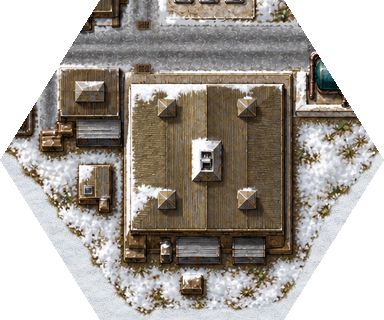
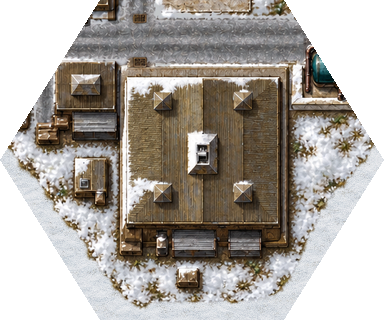
fix(art-review): the factory street meets its road, pinned by a test
TestCompoundEntryStreetMeetsTheRoad measures, in every installed compound
scene with an entry road, the painted street's mirror axis 10-18 world px
inside the entry port against the road tile's, and allows 1 world px. The
hand-set factory shift (3.5, 2.4) left the street 1.5-2 world px off in both
seasons; (2.5, 0.7) puts it on the road. The factory tiles are re-cut.

Claude-Session: https://claude.ai/code/session_01GYYpxSaZdbX1BuoopUdKHR

diff --git a/tools/art-review/compound_entry_offset_test.go b/tools/art-review/compound_entry_offset_test.go
@@ -1,0 +1,112 @@
+package main
+
+import (
+	"image"
+	"math"
+	"path/filepath"
+	"slices"
+	"testing"
+)
+
+// compoundEntryOffset is how far (world px, across the entry port) the
+// painted street of scene s runs from the road tile it continues, just inside
+// the entry blend: the street's mirror axis in the artwork minus the road's.
+func compoundEntryOffset(in compoundInputs, s compoundSceneInput) (float64, error) {
+	l, err := compoundLayoutFor(s.ID)
+	if err != nil {
+		return 0, err
+	}
+	art, _, err := compoundAffine(in.Artwork[s.ID].Image, l, s.Inset, s.fit())
+	if err != nil {
+		return 0, err
+	}
+	road := in.EntryRoads[s.ID]
+	origin, port, err := compoundEntryPort(l)
+	if err != nil {
+		return 0, err
+	}
+	f, v, err := compoundEntryRoad(road, l)
+	if err != nil {
+		return 0, err
+	}
+	raw := renderConnectionRaw(road, &f, &v) // 4x, 4 world px overscan
+	g := road.manifest.Geometry
+	at := g.Ports[port-1]
+	inward := g.Neighbors[port-1].mul(-1 / g.Neighbors[port-1].length())
+	across := connectionPoint{-inward[1], inward[0]}
+	const reach, per = 24, 4 // world px either side, samples per world px
+	// profile is the median colour, over depths blend..blend+8, at each
+	// sample across the port of im, whose pixel (0,0) lies at local world
+	// point o. The median ignores what crosses the street there (the depot's
+	// barrier, the factory's gantry).
+	profile := func(im *image.NRGBA, o connectionPoint) [][3]float64 {
+		var p [][3]float64
+		for i := -reach * per; i <= reach*per; i++ {
+			var ch [3][]float64
+			for d := float64(compoundEntryBlend); d <= compoundEntryBlend+8; d += .5 {
+				q := at.add(inward.mul(d)).add(across.mul(float64(i) / per))
+				x, y := int(math.Floor((q[0]-o[0])*4)), int(math.Floor((q[1]-o[1])*4))
+				if !(image.Point{x, y}).In(im.Bounds()) {
+					continue
+				}
+				c := im.NRGBAAt(x, y)
+				ch[0], ch[1], ch[2] = append(ch[0], float64(c.R)), append(ch[1], float64(c.G)), append(ch[2], float64(c.B))
+			}
+			var m [3]float64
+			for k := range 3 {
+				slices.Sort(ch[k])
+				m[k] = ch[k][len(ch[k])/2]
+			}
+			p = append(p, m)
+		}
+		return p
+	}
+	want := profile(raw, connectionPoint{-4, -4})
+	got := profile(art, connectionPoint{-origin[0], -origin[1]})
+	// axis is the line across the port about which p is most nearly mirror
+	// symmetric over the street and its verges (half width world px), within
+	// ±shift world px of the port's centre line.
+	const half, shift = 14, 6
+	axis := func(p [][3]float64) float64 {
+		best, at := math.Inf(1), 0.
+		for c := -shift * per; c <= shift*per; c++ {
+			sum := 0.
+			for t := 1; t <= half*per; t++ {
+				a, b := p[reach*per+c+t], p[reach*per+c-t]
+				sum += math.Sqrt((a[0]-b[0])*(a[0]-b[0]) + (a[1]-b[1])*(a[1]-b[1]) + (a[2]-b[2])*(a[2]-b[2]))
+			}
+			if sum < best {
+				best, at = sum, float64(c)/per
+			}
+		}
+		return at
+	}
+	return axis(got) - axis(want), nil
+}
+
+// TestCompoundEntryStreetMeetsTheRoad: in every installed compound scene with
+// an entry road, the painted street runs within 1 world px of the road tile it
+// continues, so the gate blend joins two aligned streets. It pins the
+// factory's manifest shift: without it the street is 2 world px off.
+func TestCompoundEntryStreetMeetsTheRoad(t *testing.T) {
+	for _, name := range []string{"compound-hq-v3.json", "compound-depot-v3.json", "compound-factory-v3.json", "compound-factory-summer-v1.json", "compound-ruin-v2.json"} {
+		in, err := loadCompoundInputs(filepath.Join("..", "..", "art", "pipeline", name))
+		if err != nil {
+			t.Fatal(err)
+		}
+		for _, s := range in.Manifest.Scenes {
+			if s.EntryRoad == nil {
+				continue
+			}
+			t.Run(s.ID, func(t *testing.T) {
+				off, err := compoundEntryOffset(in, s)
+				if err != nil {
+					t.Fatal(err)
+				}
+				if math.Abs(off) > 1 {
+					t.Errorf("%s: street %+.2f world px off the road", name, off)
+				}
+			})
+		}
+	}
+}

diff --git a/art/terrain/factory/prompt.md b/art/terrain/factory/prompt.md
@@ -48,9 +48,9 @@ use the same four-cell diamond, east road port and reference framing.
 
 `art-review -compound art/pipeline/compound-factory-v3.json` places the scene on winter meadow and slices
 the four winter cells. `compound-factory-summer-v1.json` exports the four matching summer cells. The scene
-fills the 238x160 box and crops the excess. The painted east street's centre lies about 4.8 world px
-north-west of the E cell's NE port, so both manifests enlarge the scene by `zoom` 1.035 and `shift` it
-(3.5, 2.4) world px to put the street on the port; the outer buildings stay inside the diamond. The first
+fills the 238x160 box and crops the excess. Both manifests enlarge the scene by `zoom` 1.035 and `shift` it (2.5, 0.7) world px, which puts the
+painted east street within 1 world px of the road through the E cell's NE port, 10–18 world px inside it
+(`TestCompoundEntryStreetMeetsTheRoad`); the outer buildings stay inside the diamond. The first
 10 world px inside the port blend into the season's road tile (`entry_road`). Exports are fixed Lanczos3 at 2x (192x160) and 4x (384x320) with complementary half-open hex ownership; promote into `assets/terrain/<family>/` and re-index.
 
 ### Winter streets (2026-10-24)

diff --git a/docs/runtime-assets.md b/docs/runtime-assets.md
@@ -176,7 +176,9 @@ form (`tile/road*_w`, `cross2_w`, `cross3_w`: packed snow, slush ruts, snow shou
 quays. Compound scenes (HQ, depot, ruin, factory) fill their scene box and crop the excess, so their
 streets reach the hex edge at the gate, and the first 10 world px of the street blend into the season's
 road tile (`entry_road`), so the road runs on into the gate (`TestGenerateCompoundTiles` and
-`TestGenerateRuinTiles` re-export them).
+`TestGenerateRuinTiles` re-export them). The painted street lies within 1 world px of that road
+(`TestCompoundEntryStreetMeetsTheRoad`). The ruin, which has no fence, fades out towards its outer edge along
+an irregular line (`edge_feather`).
 For one adjacent stream facing a fully-land shore edge, the compositor selects
 `tile/<shore>-outlet<port>`. The 24 single-mouth variants share the ordinary bank and water materials,
 retain the corner states and meet the stream's port profile. Missing variants or several facing streams
